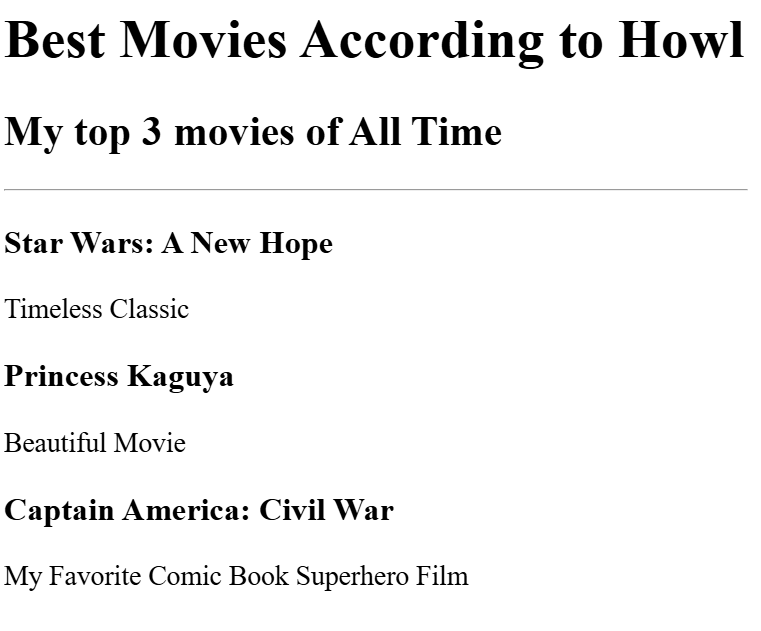
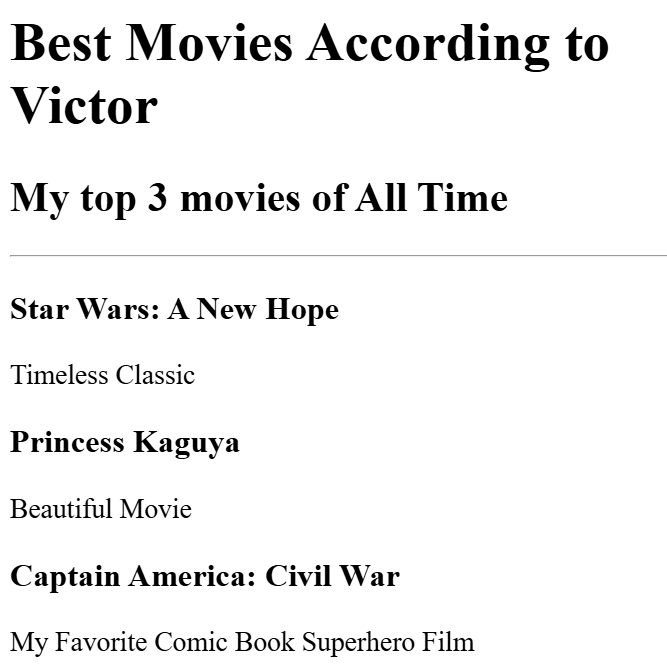
Add files via upload

diff --git a/index.html b/index.html
@@ -4,10 +4,10 @@
 <head>
     <meta charset="UTF-8">
     <meta name="viewport" content="width=device-width, initial-scale=1.0">
-    <title>Howl's Portfolio</title>
+    <title>Victor's Portfolio</title>
 </head>
 <body>
-    <h1>Howl's Portfolio</h1>
+    <h1>Victor's Portfolio</h1>
     <h2>Aspiring Web Dev and Software Dev</h2>
     <hr />
     <h3><a href="public/movie-ranking.html">Movie Ranking Project</a></h3>

diff --git a/public/about.html b/public/about.html
@@ -1,5 +1,5 @@
 <h1>About Me</h1>
-<p>Hi! My name’s Victor “Howl” Asuncion, 
+<p>Hi! My name’s Victor  Asuncion, 
   I’m an aspiring software developer. I grew up in Los Angeles and moved to Manila, Philippines at a young age. 
   I am interested in Web Dev and Game Dev, 
   wanting to learn languages such as Java and C++. </p>

diff --git a/public/movie-ranking.html b/public/movie-ranking.html
@@ -1,4 +1,4 @@
-<h1>Best Movies According to Howl</h1>
+<h1>Best Movies According to Victor</h1>
  <h2>My top 3 movies of All Time</h2>
  <hr />
  <h3>Star Wars: A New Hope</h3>
